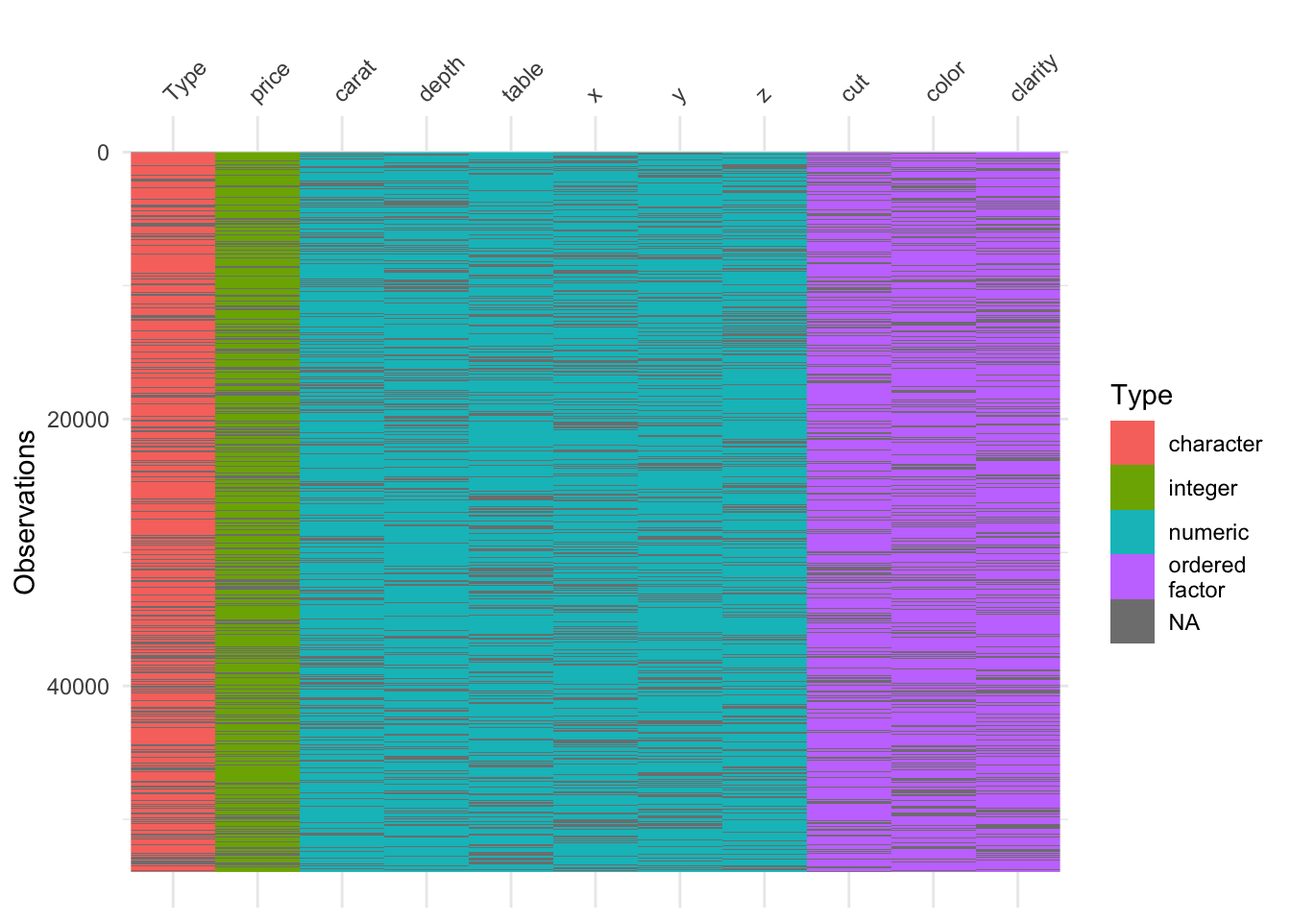
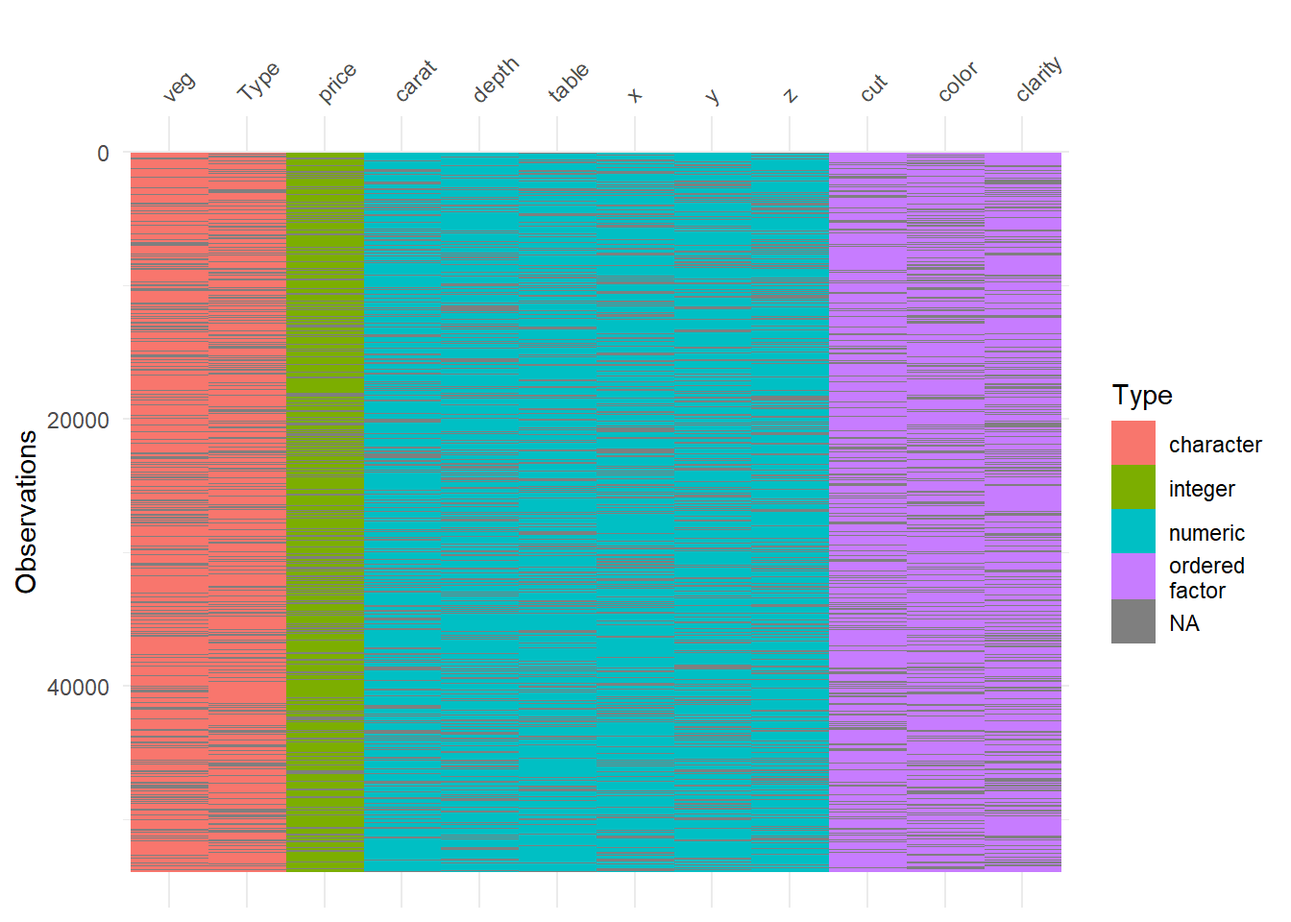
Commits

diff --git a/docs/research-design-for-monitoring-and-evaluation-studies.html b/docs/research-design-for-monitoring-and-evaluation-studies.html
@@ -6,7 +6,7 @@
   <meta http-equiv="X-UA-Compatible" content="IE=edge" />
   <title>Chapter 3 Research Design for Monitoring and Evaluation Studies | Data Science Within Monitoring and Evaluation in Humanitarian Context</title>
   <meta name="description" content="Chapter 3 Research Design for Monitoring and Evaluation Studies | Data Science Within Monitoring and Evaluation in Humanitarian Context" />
-  <meta name="generator" content="bookdown 0.30 and GitBook 2.6.7" />
+  <meta name="generator" content="bookdown 0.29 and GitBook 2.6.7" />
 
   <meta property="og:title" content="Chapter 3 Research Design for Monitoring and Evaluation Studies | Data Science Within Monitoring and Evaluation in Humanitarian Context" />
   <meta property="og:type" content="book" />
@@ -23,7 +23,7 @@
 <meta name="author" content="Cagri Cebisli" />
 
 
-<meta name="date" content="2022-12-12" />
+<meta name="date" content="2022-12-13" />
 
   <meta name="viewport" content="width=device-width, initial-scale=1" />
   <meta name="apple-mobile-web-app-capable" content="yes" />
@@ -224,12 +224,12 @@ code span.wa { color: #60a0b0; font-weight: bold; font-style: italic; } /* Warni
 <h2><span class="header-section-number">3.1</span> Logframes, Indicators and Questionnaire Design<a href="research-design-for-monitoring-and-evaluation-studies.html#logframes-indicators-and-questionnaire-design" class="anchor-section" aria-label="Anchor link to header"></a></h2>
 <p>Through logframe, there will be several indicators that is measured by M&amp;E teams. Team must tailor surveys to collect these indicators. There are several different methods of reflecting a log frame, yet, the one I propose is below. This version reflects anything needed; a description of indicator, data source, baseline, target, data source, frequency, main responsible, and most importantly, assumption and risks.</p>
 <div class="figure">
-<img src="C:\R%20Working%20Directory\R%20Bookdown\HumanitarianBook1\Logframe%20Indicators.JPG" alt="" />
+<img src="Logframe%20Indicators.JPG" alt="" />
 <p class="caption">Logframe overlook, kindly zoom in to read, sorry!</p>
 </div>
 <p>Lets say, you are an M&amp;E specialist to a humanitarian programme. Donor asks you to use SMART indicators (please do google it, very useful topic). Then, with the blessings of donor, or in your proposal to a donor, you reflect that your indicators will be rCSI and FCS. Second step is to designing your PDMs. rCSI is an indicator that builds over 5 questions. Thus, you have to have these questions to calculate and report rCSI. We will dig more into these indicators, how to calculate them with R in the following sessions. In a nutshell, questionnaire design orients around logframe indicators. Simple as that.</p>
 <div class="figure">
-<img src="C:\R%20Working%20Directory\R%20Bookdown\HumanitarianBook1\rCSI%20Indicator.JPG" alt="" />
+<img src="rCSI%20Indicator.JPG" alt="" />
 <p class="caption">Calculation of rCSI</p>
 </div>
 <p>Additional parts of questionnaire design comes from analyst. If analyst wants to conduct a vulnerability study depending on multi-dimensional aspect, that includes household assets, these can be added as wished. So any metric compounds of set of questions can be added to the questionnaire. There are two things analyst must be careful about;</p>
@@ -269,7 +269,7 @@ If UNOCHA receives a notice alleging that material from your account infringes a
 <p>Keep in mind that one survey can have several different target populations. For example, a baseline survey of a nutrition-sensitive agricultural intervention might target children under 5 years (for measuring the prevalence of under nutrition), their caregivers, trained farmers as well as agriculture extension workers. Such surveys then require separate samples for each target group.</p>
 <p>Please kindly refer to document mentioned above. Here, I will be giving some tips and tricks from my personal experiences and try to reflect how I do things operationally, in a most simplified way.</p>
 <div class="figure">
-<img src="C:\R%20Working%20Directory\R%20Bookdown\HumanitarianBook1\Sampling.JPG" alt="" />
+<img src="Sampling.JPG" alt="" />
 <p class="caption">Sampling Roadmap</p>
 </div>
 <div id="analysis-unit" class="section level3 hasAnchor" number="3.3.1">
@@ -299,32 +299,33 @@ If UNOCHA receives a notice alleging that material from your account infringes a
 <div class="sourceCode" id="cb1"><pre class="sourceCode r"><code class="sourceCode r"><span id="cb1-1"><a href="research-design-for-monitoring-and-evaluation-studies.html#cb1-1" aria-hidden="true" tabindex="-1"></a><span class="fu">library</span>(tidyverse)</span>
 <span id="cb1-2"><a href="research-design-for-monitoring-and-evaluation-studies.html#cb1-2" aria-hidden="true" tabindex="-1"></a><span class="fu">library</span>(ggplot2)</span>
 <span id="cb1-3"><a href="research-design-for-monitoring-and-evaluation-studies.html#cb1-3" aria-hidden="true" tabindex="-1"></a><span class="fu">head</span>(diamonds,<span class="dv">5</span>)</span></code></pre></div>
-<pre><code>## # A tibble: 5 × 11
-##   carat cut     color clarity depth table price     x     y     z Type      
-##   &lt;dbl&gt; &lt;ord&gt;   &lt;ord&gt; &lt;ord&gt;   &lt;dbl&gt; &lt;dbl&gt; &lt;int&gt; &lt;dbl&gt; &lt;dbl&gt; &lt;dbl&gt; &lt;chr&gt;     
-## 1  0.23 Ideal   E     SI2      61.5    55   326  3.95  3.98  2.43 Population
-## 2  0.21 Premium E     SI1      59.8    61   326  3.89  3.84  2.31 Population
-## 3  0.23 Good    E     VS1      56.9    65   327  4.05  4.07  2.31 Population
-## 4  0.29 Premium I     VS2      62.4    58   334  4.2   4.23  2.63 Population
-## 5  0.31 Good    J     SI2      63.3    58   335  4.34  4.35  2.75 Population</code></pre>
+<pre><code>## # A tibble: 5 × 12
+##   carat cut     color clarity depth table price     x     y     z veg     Type      
+##   &lt;dbl&gt; &lt;ord&gt;   &lt;ord&gt; &lt;ord&gt;   &lt;dbl&gt; &lt;dbl&gt; &lt;int&gt; &lt;dbl&gt; &lt;dbl&gt; &lt;dbl&gt; &lt;chr&gt;   &lt;chr&gt;     
+## 1  0.23 Ideal   E     SI2      61.5    55   326  3.95  3.98  2.43 Orginal Population
+## 2  0.21 Premium E     SI1      59.8    61   326  3.89  3.84  2.31 Orginal Population
+## 3  0.23 Good    E     VS1      56.9    65   327  4.05  4.07  2.31 Orginal Population
+## 4  0.29 Premium I     VS2      62.4    58   334  4.2   4.23  2.63 Orginal Population
+## 5  0.31 Good    J     SI2      63.3    58   335  4.34  4.35  2.75 Orginal Population</code></pre>
 <p>Lets do this exercise over “Diamonds” data comes with tidyverse package. Thus, this data is population data and you need to draw some samples for a study.</p>
 <p><strong>Setting the Scene:</strong></p>
 <p>You are a data scientist works with monitoring and evaluation unit in country office x. There is a cash-based intervention and you are responsible for designing a PDM. In programme objective, it says; increasing economic situation of the target population. So this is basically your research question. Now it is time to build a research design. In secondary data review, you find out that for specific regions, socio-economical indicators are very different (livelihoods and expenditures etc.). Thus, to have an accurate outcomes, you design a representative sample for each region, to have a better understanding of the concept. Operationally, you have enough capacity to collect data within promised time (I am stating that because dividing sample into layers means more surveys, it could be overall 385 or for two regions 385 x 2). Now, you have the population data and sample stage is at hand. In first version, we will draw a quick sample from overall population and then move to more simplified version of layered sample.</p>
 <div class="sourceCode" id="cb3"><pre class="sourceCode r"><code class="sourceCode r"><span id="cb3-1"><a href="research-design-for-monitoring-and-evaluation-studies.html#cb3-1" aria-hidden="true" tabindex="-1"></a><span class="co">#A quick overlook to data</span></span>
 <span id="cb3-2"><a href="research-design-for-monitoring-and-evaluation-studies.html#cb3-2" aria-hidden="true" tabindex="-1"></a><span class="fu">glimpse</span>(diamonds)</span></code></pre></div>
 <pre><code>## Rows: 53,940
-## Columns: 11
-## $ carat   &lt;dbl&gt; 0.23, 0.21, 0.23, 0.29, 0.31, 0.24, 0.24, 0.26, 0.22, 0.23, 0.30, 0.23, 0.22, 0.31, 0.20, 0.32, 0.…
-## $ cut     &lt;ord&gt; Ideal, Premium, Good, Premium, Good, Very Good, Very Good, Very Good, Fair, Very Good, Good, Ideal…
-## $ color   &lt;ord&gt; E, E, E, I, J, J, I, H, E, H, J, J, F, J, E, E, I, J, J, J, I, E, H, J, J, G, I, J, D, F, F, F, E,…
-## $ clarity &lt;ord&gt; SI2, SI1, VS1, VS2, SI2, VVS2, VVS1, SI1, VS2, VS1, SI1, VS1, SI1, SI2, SI2, I1, SI2, SI1, SI1, SI…
-## $ depth   &lt;dbl&gt; 61.5, 59.8, 56.9, 62.4, 63.3, 62.8, 62.3, 61.9, 65.1, 59.4, 64.0, 62.8, 60.4, 62.2, 60.2, 60.9, 62…
-## $ table   &lt;dbl&gt; 55, 61, 65, 58, 58, 57, 57, 55, 61, 61, 55, 56, 61, 54, 62, 58, 54, 54, 56, 59, 56, 55, 57, 62, 62…
-## $ price   &lt;int&gt; 326, 326, 327, 334, 335, 336, 336, 337, 337, 338, 339, 340, 342, 344, 345, 345, 348, 351, 351, 351…
-## $ x       &lt;dbl&gt; 3.95, 3.89, 4.05, 4.20, 4.34, 3.94, 3.95, 4.07, 3.87, 4.00, 4.25, 3.93, 3.88, 4.35, 3.79, 4.38, 4.…
-## $ y       &lt;dbl&gt; 3.98, 3.84, 4.07, 4.23, 4.35, 3.96, 3.98, 4.11, 3.78, 4.05, 4.28, 3.90, 3.84, 4.37, 3.75, 4.42, 4.…
-## $ z       &lt;dbl&gt; 2.43, 2.31, 2.31, 2.63, 2.75, 2.48, 2.47, 2.53, 2.49, 2.39, 2.73, 2.46, 2.33, 2.71, 2.27, 2.68, 2.…
-## $ Type    &lt;chr&gt; &quot;Population&quot;, &quot;Population&quot;, &quot;Population&quot;, &quot;Population&quot;, &quot;Population&quot;, &quot;Population&quot;, &quot;Population&quot;, …</code></pre>
+## Columns: 12
+## $ carat   &lt;dbl&gt; 0.23, 0.21, 0.23, 0.29, 0.31, 0.24, 0.24, 0.26, 0.22, 0.23, 0.30, 0.23, 0.22, 0.31, 0.20, 0.32, 0.30, 0.30, 0.30, 0.30, 0.30, 0.23, 0.23, 0.31, 0…
+## $ cut     &lt;ord&gt; Ideal, Premium, Good, Premium, Good, Very Good, Very Good, Very Good, Fair, Very Good, Good, Ideal, Premium, Ideal, Premium, Premium, Ideal, Good…
+## $ color   &lt;ord&gt; E, E, E, I, J, J, I, H, E, H, J, J, F, J, E, E, I, J, J, J, I, E, H, J, J, G, I, J, D, F, F, F, E, E, D, F, E, H, D, I, I, J, D, D, H, F, H, H, E…
+## $ clarity &lt;ord&gt; SI2, SI1, VS1, VS2, SI2, VVS2, VVS1, SI1, VS2, VS1, SI1, VS1, SI1, SI2, SI2, I1, SI2, SI1, SI1, SI1, SI2, VS2, VS1, SI1, SI1, VVS2, VS1, VS2, VS2…
+## $ depth   &lt;dbl&gt; 61.5, 59.8, 56.9, 62.4, 63.3, 62.8, 62.3, 61.9, 65.1, 59.4, 64.0, 62.8, 60.4, 62.2, 60.2, 60.9, 62.0, 63.4, 63.8, 62.7, 63.3, 63.8, 61.0, 59.4, 5…
+## $ table   &lt;dbl&gt; 55, 61, 65, 58, 58, 57, 57, 55, 61, 61, 55, 56, 61, 54, 62, 58, 54, 54, 56, 59, 56, 55, 57, 62, 62, 58, 57, 57, 61, 57, 57, 57, 59, 58, 58, 59, 5…
+## $ price   &lt;int&gt; 326, 326, 327, 334, 335, 336, 336, 337, 337, 338, 339, 340, 342, 344, 345, 345, 348, 351, 351, 351, 351, 352, 353, 353, 353, 354, 355, 357, 357, …
+## $ x       &lt;dbl&gt; 3.95, 3.89, 4.05, 4.20, 4.34, 3.94, 3.95, 4.07, 3.87, 4.00, 4.25, 3.93, 3.88, 4.35, 3.79, 4.38, 4.31, 4.23, 4.23, 4.21, 4.26, 3.85, 3.94, 4.39, 4…
+## $ y       &lt;dbl&gt; 3.98, 3.84, 4.07, 4.23, 4.35, 3.96, 3.98, 4.11, 3.78, 4.05, 4.28, 3.90, 3.84, 4.37, 3.75, 4.42, 4.34, 4.29, 4.26, 4.27, 4.30, 3.92, 3.96, 4.43, 4…
+## $ z       &lt;dbl&gt; 2.43, 2.31, 2.31, 2.63, 2.75, 2.48, 2.47, 2.53, 2.49, 2.39, 2.73, 2.46, 2.33, 2.71, 2.27, 2.68, 2.68, 2.70, 2.71, 2.66, 2.71, 2.48, 2.41, 2.62, 2…
+## $ veg     &lt;chr&gt; &quot;Orginal&quot;, &quot;Orginal&quot;, &quot;Orginal&quot;, &quot;Orginal&quot;, &quot;Orginal&quot;, &quot;Orginal&quot;, &quot;Orginal&quot;, &quot;Orginal&quot;, &quot;Orginal&quot;, &quot;Orginal&quot;, &quot;Orginal&quot;, &quot;Orginal&quot;, &quot;Orginal&quot;, &quot;O…
+## $ Type    &lt;chr&gt; &quot;Population&quot;, &quot;Population&quot;, &quot;Population&quot;, &quot;Population&quot;, &quot;Population&quot;, &quot;Population&quot;, &quot;Population&quot;, &quot;Population&quot;, &quot;Population&quot;, &quot;Population&quot;, &quot;Popu…</code></pre>
 <p>Lets take “cut” as region here. This variable is categorical with 5 unique values. There are several good-ends of taking sample with data partition. More info can be found in: <strong><a href="http://topepo.github.io/caret/data-splitting.html" class="uri">http://topepo.github.io/caret/data-splitting.html</a></strong></p>
 <p>If you need to calculate threshold (desired number for representative sample), <strong>Raosoft (<a href="http://www.raosoft.com/samplesize.html" class="uri">http://www.raosoft.com/samplesize.html</a>)</strong> is a good sample size calculator. So in this example, lets decide metrics wih Raosoft; with %5 margin of error, %95 confidence level, population size of 53940 and %50 response distribution (maximum unknown) our sample size is 382. Including %50 non-response rate sample size (a call list or interviewee list) is 764. In the current situation we are using cluster sampling so that for five different categories (could be region, nationality etc. in humanitarian sector) we need to draw 382 (764) for each of them. We did take ‘cut’ as our layer in the sampling. Thus, for five categories we need sample of 764 * 5 = 3820 sample which is ~%7.1 of our population.</p>
 <div class="sourceCode" id="cb5"><pre class="sourceCode r"><code class="sourceCode r"><span id="cb5-1"><a href="research-design-for-monitoring-and-evaluation-studies.html#cb5-1" aria-hidden="true" tabindex="-1"></a><span class="co">#Easiest way to draw layered sample. One row coding, amazing package!</span></span>

diff --git a/docs/descriptive---primelinary-analysis.html b/docs/descriptive---primelinary-analysis.html
@@ -6,7 +6,7 @@
   <meta http-equiv="X-UA-Compatible" content="IE=edge" />
   <title>Chapter 4 Descriptive - Primelinary Analysis | Data Science Within Monitoring and Evaluation in Humanitarian Context</title>
   <meta name="description" content="Chapter 4 Descriptive - Primelinary Analysis | Data Science Within Monitoring and Evaluation in Humanitarian Context" />
-  <meta name="generator" content="bookdown 0.30 and GitBook 2.6.7" />
+  <meta name="generator" content="bookdown 0.29 and GitBook 2.6.7" />
 
   <meta property="og:title" content="Chapter 4 Descriptive - Primelinary Analysis | Data Science Within Monitoring and Evaluation in Humanitarian Context" />
   <meta property="og:type" content="book" />
@@ -23,7 +23,7 @@
 <meta name="author" content="Cagri Cebisli" />
 
 
-<meta name="date" content="2022-12-12" />
+<meta name="date" content="2022-12-13" />
 
   <meta name="viewport" content="width=device-width, initial-scale=1" />
   <meta name="apple-mobile-web-app-capable" content="yes" />
@@ -219,10 +219,10 @@ code span.wa { color: #60a0b0; font-weight: bold; font-style: italic; } /* Warni
 <span id="cb13-3"><a href="descriptive---primelinary-analysis.html#cb13-3" aria-hidden="true" tabindex="-1"></a><span class="co">#rename comes with dplyr.</span></span>
 <span id="cb13-4"><a href="descriptive---primelinary-analysis.html#cb13-4" aria-hidden="true" tabindex="-1"></a>DiamondsRenamed <span class="ot">&lt;-</span> diamonds <span class="sc">%&gt;%</span> <span class="fu">rename</span>(<span class="st">&quot;renamed_table&quot;</span><span class="ot">=</span><span class="st">&quot;table&quot;</span>)</span>
 <span id="cb13-5"><a href="descriptive---primelinary-analysis.html#cb13-5" aria-hidden="true" tabindex="-1"></a><span class="fu">colnames</span>(diamonds)</span></code></pre></div>
-<pre><code>##  [1] &quot;carat&quot;   &quot;cut&quot;     &quot;color&quot;   &quot;clarity&quot; &quot;depth&quot;   &quot;table&quot;   &quot;price&quot;   &quot;x&quot;       &quot;y&quot;       &quot;z&quot;       &quot;Type&quot;</code></pre>
+<pre><code>##  [1] &quot;carat&quot;   &quot;cut&quot;     &quot;color&quot;   &quot;clarity&quot; &quot;depth&quot;   &quot;table&quot;   &quot;price&quot;   &quot;x&quot;       &quot;y&quot;       &quot;z&quot;       &quot;veg&quot;     &quot;Type&quot;</code></pre>
 <div class="sourceCode" id="cb15"><pre class="sourceCode r"><code class="sourceCode r"><span id="cb15-1"><a href="descriptive---primelinary-analysis.html#cb15-1" aria-hidden="true" tabindex="-1"></a><span class="fu">colnames</span>(DiamondsRenamed)</span></code></pre></div>
-<pre><code>##  [1] &quot;carat&quot;         &quot;cut&quot;           &quot;color&quot;         &quot;clarity&quot;       &quot;depth&quot;         &quot;renamed_table&quot; &quot;price&quot;        
-##  [8] &quot;x&quot;             &quot;y&quot;             &quot;z&quot;             &quot;Type&quot;</code></pre>
+<pre><code>##  [1] &quot;carat&quot;         &quot;cut&quot;           &quot;color&quot;         &quot;clarity&quot;       &quot;depth&quot;         &quot;renamed_table&quot; &quot;price&quot;         &quot;x&quot;             &quot;y&quot;            
+## [10] &quot;z&quot;             &quot;veg&quot;           &quot;Type&quot;</code></pre>
 </div>
 <div id="converting-multiple-selections-into-dummy-variables" class="section level2 hasAnchor" number="4.3">
 <h2><span class="header-section-number">4.3</span> Converting Multiple Selections into Dummy Variables<a href="descriptive---primelinary-analysis.html#converting-multiple-selections-into-dummy-variables" class="anchor-section" aria-label="Anchor link to header"></a></h2>
@@ -252,22 +252,23 @@ code span.wa { color: #60a0b0; font-weight: bold; font-style: italic; } /* Warni
 <span id="cb18-20"><a href="descriptive---primelinary-analysis.html#cb18-20" aria-hidden="true" tabindex="-1"></a><span class="co">#Lets see what happened. Check last three columns as examplecolumn.</span></span>
 <span id="cb18-21"><a href="descriptive---primelinary-analysis.html#cb18-21" aria-hidden="true" tabindex="-1"></a><span class="fu">glimpse</span>(DiamondsRenamed)</span></code></pre></div>
 <pre><code>## Rows: 53,940
-## Columns: 15
-## $ carat                    &lt;dbl&gt; 0.23, 0.21, 0.23, 0.29, 0.31, 0.24, 0.24, 0.26, 0.22, 0.23, 0.30, 0.23, 0.22, 0.3…
-## $ cut                      &lt;ord&gt; Ideal, Premium, Good, Premium, Good, Very Good, Very Good, Very Good, Fair, Very …
-## $ color                    &lt;ord&gt; E, E, E, I, J, J, I, H, E, H, J, J, F, J, E, E, I, J, J, J, I, E, H, J, J, G, I, …
-## $ clarity                  &lt;ord&gt; SI2, SI1, VS1, VS2, SI2, VVS2, VVS1, SI1, VS2, VS1, SI1, VS1, SI1, SI2, SI2, I1, …
-## $ depth                    &lt;dbl&gt; 61.5, 59.8, 56.9, 62.4, 63.3, 62.8, 62.3, 61.9, 65.1, 59.4, 64.0, 62.8, 60.4, 62.…
-## $ renamed_table            &lt;dbl&gt; 55, 61, 65, 58, 58, 57, 57, 55, 61, 61, 55, 56, 61, 54, 62, 58, 54, 54, 56, 59, 5…
-## $ price                    &lt;int&gt; 326, 326, 327, 334, 335, 336, 336, 337, 337, 338, 339, 340, 342, 344, 345, 345, 3…
-## $ x                        &lt;dbl&gt; 3.95, 3.89, 4.05, 4.20, 4.34, 3.94, 3.95, 4.07, 3.87, 4.00, 4.25, 3.93, 3.88, 4.3…
-## $ y                        &lt;dbl&gt; 3.98, 3.84, 4.07, 4.23, 4.35, 3.96, 3.98, 4.11, 3.78, 4.05, 4.28, 3.90, 3.84, 4.3…
-## $ z                        &lt;dbl&gt; 2.43, 2.31, 2.31, 2.63, 2.75, 2.48, 2.47, 2.53, 2.49, 2.39, 2.73, 2.46, 2.33, 2.7…
-## $ Type                     &lt;chr&gt; &quot;Population&quot;, &quot;Population&quot;, &quot;Population&quot;, &quot;Population&quot;, &quot;Population&quot;, &quot;Population…
-## $ MultSelec                &lt;chr&gt; &quot;Selection1,Selection2,Selection5&quot;, &quot;Selection1,Selection2,Selection5&quot;, &quot;Selectio…
-## $ examplecolumn_Selection1 &lt;dbl&gt; 1, 1, 1, 1, 1, 1, 1, 1, 1, 1, 1, 1, 1, 1, 1, 1, 1, 1, 1, 1, 1, 1, 1, 1, 1, 1, 1, …
-## $ examplecolumn_Selection2 &lt;dbl&gt; 1, 1, 1, 1, 1, 1, 1, 1, 1, 1, 1, 1, 1, 1, 1, 1, 1, 1, 1, 1, 1, 1, 1, 1, 1, 1, 1, …
-## $ examplecolumn_Selection5 &lt;dbl&gt; 1, 1, 1, 1, 1, 1, 1, 1, 1, 1, 1, 1, 1, 1, 1, 1, 1, 1, 1, 1, 1, 1, 1, 1, 1, 1, 1, …</code></pre>
+## Columns: 16
+## $ carat                    &lt;dbl&gt; 0.23, 0.21, 0.23, 0.29, 0.31, 0.24, 0.24, 0.26, 0.22, 0.23, 0.30, 0.23, 0.22, 0.31, 0.20, 0.32, 0.30, 0.30, 0.30, 0.30, 0.30, 0.…
+## $ cut                      &lt;ord&gt; Ideal, Premium, Good, Premium, Good, Very Good, Very Good, Very Good, Fair, Very Good, Good, Ideal, Premium, Ideal, Premium, Pre…
+## $ color                    &lt;ord&gt; E, E, E, I, J, J, I, H, E, H, J, J, F, J, E, E, I, J, J, J, I, E, H, J, J, G, I, J, D, F, F, F, E, E, D, F, E, H, D, I, I, J, D,…
+## $ clarity                  &lt;ord&gt; SI2, SI1, VS1, VS2, SI2, VVS2, VVS1, SI1, VS2, VS1, SI1, VS1, SI1, SI2, SI2, I1, SI2, SI1, SI1, SI1, SI2, VS2, VS1, SI1, SI1, VV…
+## $ depth                    &lt;dbl&gt; 61.5, 59.8, 56.9, 62.4, 63.3, 62.8, 62.3, 61.9, 65.1, 59.4, 64.0, 62.8, 60.4, 62.2, 60.2, 60.9, 62.0, 63.4, 63.8, 62.7, 63.3, 63…
+## $ renamed_table            &lt;dbl&gt; 55, 61, 65, 58, 58, 57, 57, 55, 61, 61, 55, 56, 61, 54, 62, 58, 54, 54, 56, 59, 56, 55, 57, 62, 62, 58, 57, 57, 61, 57, 57, 57, …
+## $ price                    &lt;int&gt; 326, 326, 327, 334, 335, 336, 336, 337, 337, 338, 339, 340, 342, 344, 345, 345, 348, 351, 351, 351, 351, 352, 353, 353, 353, 354…
+## $ x                        &lt;dbl&gt; 3.95, 3.89, 4.05, 4.20, 4.34, 3.94, 3.95, 4.07, 3.87, 4.00, 4.25, 3.93, 3.88, 4.35, 3.79, 4.38, 4.31, 4.23, 4.23, 4.21, 4.26, 3.…
+## $ y                        &lt;dbl&gt; 3.98, 3.84, 4.07, 4.23, 4.35, 3.96, 3.98, 4.11, 3.78, 4.05, 4.28, 3.90, 3.84, 4.37, 3.75, 4.42, 4.34, 4.29, 4.26, 4.27, 4.30, 3.…
+## $ z                        &lt;dbl&gt; 2.43, 2.31, 2.31, 2.63, 2.75, 2.48, 2.47, 2.53, 2.49, 2.39, 2.73, 2.46, 2.33, 2.71, 2.27, 2.68, 2.68, 2.70, 2.71, 2.66, 2.71, 2.…
+## $ veg                      &lt;chr&gt; &quot;Orginal&quot;, &quot;Orginal&quot;, &quot;Orginal&quot;, &quot;Orginal&quot;, &quot;Orginal&quot;, &quot;Orginal&quot;, &quot;Orginal&quot;, &quot;Orginal&quot;, &quot;Orginal&quot;, &quot;Orginal&quot;, &quot;Orginal&quot;, &quot;Orgina…
+## $ Type                     &lt;chr&gt; &quot;Population&quot;, &quot;Population&quot;, &quot;Population&quot;, &quot;Population&quot;, &quot;Population&quot;, &quot;Population&quot;, &quot;Population&quot;, &quot;Population&quot;, &quot;Population&quot;, &quot;P…
+## $ MultSelec                &lt;chr&gt; &quot;Selection1,Selection2,Selection5&quot;, &quot;Selection1,Selection2,Selection5&quot;, &quot;Selection1,Selection2,Selection5&quot;, &quot;Selection1,Selectio…
+## $ examplecolumn_Selection1 &lt;dbl&gt; 1, 1, 1, 1, 1, 1, 1, 1, 1, 1, 1, 1, 1, 1, 1, 1, 1, 1, 1, 1, 1, 1, 1, 1, 1, 1, 1, 1, 1, 1, 1, 1, 1, 1, 1, 1, 1, 1, 1, 1, 1, 1, 1,…
+## $ examplecolumn_Selection2 &lt;dbl&gt; 1, 1, 1, 1, 1, 1, 1, 1, 1, 1, 1, 1, 1, 1, 1, 1, 1, 1, 1, 1, 1, 1, 1, 1, 1, 1, 1, 1, 1, 1, 1, 1, 1, 1, 1, 1, 1, 1, 1, 1, 1, 1, 1,…
+## $ examplecolumn_Selection5 &lt;dbl&gt; 1, 1, 1, 1, 1, 1, 1, 1, 1, 1, 1, 1, 1, 1, 1, 1, 1, 1, 1, 1, 1, 1, 1, 1, 1, 1, 1, 1, 1, 1, 1, 1, 1, 1, 1, 1, 1, 1, 1, 1, 1, 1, 1,…</code></pre>
 </div>
 <div id="missing-values" class="section level2 hasAnchor" number="4.4">
 <h2><span class="header-section-number">4.4</span> Missing Values<a href="descriptive---primelinary-analysis.html#missing-values" class="anchor-section" aria-label="Anchor link to header"></a></h2>
@@ -307,16 +308,16 @@ code span.wa { color: #60a0b0; font-weight: bold; font-style: italic; } /* Warni
 <pre><code>## # A tibble: 53,940 × 7
 ##    carat depth table price     x     y     z
 ##    &lt;dbl&gt; &lt;dbl&gt; &lt;dbl&gt; &lt;int&gt; &lt;dbl&gt; &lt;dbl&gt; &lt;dbl&gt;
-##  1 NA     61.5    55   326 NA     3.98  2.43
-##  2  0.21  NA      61   326  3.89  3.84  2.31
-##  3  0.23  NA      65   327  4.05  4.07 NA   
-##  4  0.29  62.4    58   334  4.2   4.23  2.63
-##  5  0.31  63.3    58    NA NA     4.35  2.75
-##  6 NA     62.8    57   336 NA     3.96  2.48
-##  7 NA     62.3    NA   336  3.95  3.98  2.47
-##  8  0.26  NA      55   337  4.07  4.11 NA   
+##  1  0.23  61.5    NA   326  3.95  3.98 NA   
+##  2  0.21  59.8    61   326  3.89  3.84  2.31
+##  3  0.23  56.9    65   327  4.05 NA     2.31
+##  4  0.29  62.4    NA    NA NA    NA     2.63
+##  5  0.31  63.3    58    NA  4.34  4.35  2.75
+##  6 NA     NA      57   336  3.94  3.96  2.48
+##  7  0.24  62.3    57   336  3.95  3.98 NA   
+##  8  0.26  NA      55    NA  4.07  4.11  2.53
 ##  9  0.22  65.1    61   337  3.87  3.78  2.49
-## 10  0.23  59.4    61   338  4     4.05  2.39
+## 10 NA     59.4    NA   338  4     4.05  2.39
 ## # … with 53,930 more rows</code></pre>
 <div class="sourceCode" id="cb25"><pre class="sourceCode r"><code class="sourceCode r"><span id="cb25-1"><a href="descriptive---primelinary-analysis.html#cb25-1" aria-hidden="true" tabindex="-1"></a><span class="fu">setnafill</span>(diamonds_missing[ , purrr<span class="sc">::</span><span class="fu">map_lgl</span>(diamonds_missing, is.numeric)], <span class="at">fill=</span><span class="dv">0</span>)</span>
 <span id="cb25-2"><a href="descriptive---primelinary-analysis.html#cb25-2" aria-hidden="true" tabindex="-1"></a><span class="fu">vis_miss</span>(diamonds_missing)</span></code></pre></div>

diff --git a/docs/humanitarian-projects-and-monitoring-and-evaluation.html b/docs/humanitarian-projects-and-monitoring-and-evaluation.html
@@ -6,7 +6,7 @@
   <meta http-equiv="X-UA-Compatible" content="IE=edge" />
   <title>Chapter 2 Humanitarian Projects and Monitoring and Evaluation | Data Science Within Monitoring and Evaluation in Humanitarian Context</title>
   <meta name="description" content="Chapter 2 Humanitarian Projects and Monitoring and Evaluation | Data Science Within Monitoring and Evaluation in Humanitarian Context" />
-  <meta name="generator" content="bookdown 0.30 and GitBook 2.6.7" />
+  <meta name="generator" content="bookdown 0.29 and GitBook 2.6.7" />
 
   <meta property="og:title" content="Chapter 2 Humanitarian Projects and Monitoring and Evaluation | Data Science Within Monitoring and Evaluation in Humanitarian Context" />
   <meta property="og:type" content="book" />
@@ -23,7 +23,7 @@
 <meta name="author" content="Cagri Cebisli" />
 
 
-<meta name="date" content="2022-12-12" />
+<meta name="date" content="2022-12-13" />
 
   <meta name="viewport" content="width=device-width, initial-scale=1" />
   <meta name="apple-mobile-web-app-capable" content="yes" />
@@ -191,12 +191,12 @@ code span.wa { color: #60a0b0; font-weight: bold; font-style: italic; } /* Warni
 <h1><span class="header-section-number">Chapter 2</span> Humanitarian Projects and Monitoring and Evaluation<a href="humanitarian-projects-and-monitoring-and-evaluation.html#humanitarian-projects-and-monitoring-and-evaluation" class="anchor-section" aria-label="Anchor link to header"></a></h1>
 <p>Before moving forward, a basic set of project-monitoring definitions could be useful. There are several types of monitoring in any programme such as; process monitoring, results monitoring, context monitoring, risk monitoring etc. Monitoring4CTP, a monitoring guidance for CTP made by USAid and CALP, is a fruitful and well-tailored document. I strongly advise this document to anyone who works in humanitarian sector.</p>
 <div class="figure">
-<img src="C:\R%20Working%20Directory\R%20Bookdown\HumanitarianBook1\Project%20Monitoring.JPG" alt="" />
+<img src="Project%20Monitoring.JPG" alt="" />
 <p class="caption">Project Monitoring by CALP</p>
 </div>
 <p>As per monitoring type, there are several method intersections. Yet, the data skills comes into play when we ask evaluation questions. An amazing visual prepared by IFRC, we can clearly see those steps and questions.</p>
 <div class="figure">
-<img src="C:\R%20Working%20Directory\R%20Bookdown\HumanitarianBook1\Evaluation%20and%20Logframe.JPG" alt="" />
+<img src="Evaluation%20and%20Logframe.JPG" alt="" />
 <p class="caption">Project Monitoring by CALP</p>
 </div>
 <p>Yes, all good, but why M&amp;E is important ?</p>

diff --git a/docs/index.html b/docs/index.html
@@ -6,7 +6,7 @@
   <meta http-equiv="X-UA-Compatible" content="IE=edge" />
   <title>Data Science Within Monitoring and Evaluation in Humanitarian Context</title>
   <meta name="description" content="Data Science Within Monitoring and Evaluation in Humanitarian Context" />
-  <meta name="generator" content="bookdown 0.30 and GitBook 2.6.7" />
+  <meta name="generator" content="bookdown 0.29 and GitBook 2.6.7" />
 
   <meta property="og:title" content="Data Science Within Monitoring and Evaluation in Humanitarian Context" />
   <meta property="og:type" content="book" />
@@ -23,7 +23,7 @@
 <meta name="author" content="Cagri Cebisli" />
 
 
-<meta name="date" content="2022-12-12" />
+<meta name="date" content="2022-12-13" />
 
   <meta name="viewport" content="width=device-width, initial-scale=1" />
   <meta name="apple-mobile-web-app-capable" content="yes" />
@@ -190,7 +190,7 @@ code span.wa { color: #60a0b0; font-weight: bold; font-style: italic; } /* Warni
 <div id="header">
 <h1 class="title">Data Science Within Monitoring and Evaluation in Humanitarian Context</h1>
 <p class="author"><em>Cagri Cebisli</em></p>
-<p class="date"><em>2022-12-12</em></p>
+<p class="date"><em>2022-12-13</em></p>
 </div>
 <div id="introduction" class="section level1 hasAnchor" number="1">
 <h1><span class="header-section-number">Chapter 1</span> Introduction<a href="index.html#introduction" class="anchor-section" aria-label="Anchor link to header"></a></h1>
@@ -222,7 +222,7 @@ code span.wa { color: #60a0b0; font-weight: bold; font-style: italic; } /* Warni
 <p>This book mainly runs in two pillars; i) Monitoring and evaluation design in humanitarian sector ii) Data Science methods. In this book, for every section, I will set a scenario, a scene to reflect reality and then will take action with coding and explain how to implement studies to a real life situation.</p>
 <p>Data sets will be random, the ones comes with packages. Anyhow, for different exercises I will be using random data sets from some packages but main concept will be same with humanitarian data. Here, mentality of tidy data comes into play, where every row stands for analysis unit and every column stands for variables.</p>
 <div class="figure">
-<img src="C:\R%20Working%20Directory\R%20Bookdown\HumanitarianBook1\BookStructure.JPG" alt="" />
+<img src="BookStructure.JPG" alt="" />
 <p class="caption">Structure of the Book</p>
 </div>
 </div>

diff --git a/docs/a-caucus-race-and-a-long-tale.html b/docs/a-caucus-race-and-a-long-tale.html
@@ -6,7 +6,7 @@
   <meta http-equiv="X-UA-Compatible" content="IE=edge" />
   <title>Chapter 5 A caucus-race and a long tale | Data Science Within Monitoring and Evaluation in Humanitarian Context</title>
   <meta name="description" content="Chapter 5 A caucus-race and a long tale | Data Science Within Monitoring and Evaluation in Humanitarian Context" />
-  <meta name="generator" content="bookdown 0.30 and GitBook 2.6.7" />
+  <meta name="generator" content="bookdown 0.29 and GitBook 2.6.7" />
 
   <meta property="og:title" content="Chapter 5 A caucus-race and a long tale | Data Science Within Monitoring and Evaluation in Humanitarian Context" />
   <meta property="og:type" content="book" />
@@ -23,7 +23,7 @@
 <meta name="author" content="Cagri Cebisli" />
 
 
-<meta name="date" content="2022-12-12" />
+<meta name="date" content="2022-12-13" />
 
   <meta name="viewport" content="width=device-width, initial-scale=1" />
   <meta name="apple-mobile-web-app-capable" content="yes" />

diff --git a/docs/404.html b/docs/404.html
@@ -6,7 +6,7 @@
   <meta http-equiv="X-UA-Compatible" content="IE=edge" />
   <title>Page not found | Data Science Within Monitoring and Evaluation in Humanitarian Context</title>
   <meta name="description" content="Page not found | Data Science Within Monitoring and Evaluation in Humanitarian Context" />
-  <meta name="generator" content="bookdown 0.30 and GitBook 2.6.7" />
+  <meta name="generator" content="bookdown 0.29 and GitBook 2.6.7" />
 
   <meta property="og:title" content="Page not found | Data Science Within Monitoring and Evaluation in Humanitarian Context" />
   <meta property="og:type" content="book" />
@@ -23,7 +23,7 @@
 <meta name="author" content="Cagri Cebisli" />
 
 
-<meta name="date" content="2022-12-12" />
+<meta name="date" content="2022-12-13" />
 
   <meta name="viewport" content="width=device-width, initial-scale=1" />
   <meta name="apple-mobile-web-app-capable" content="yes" />
